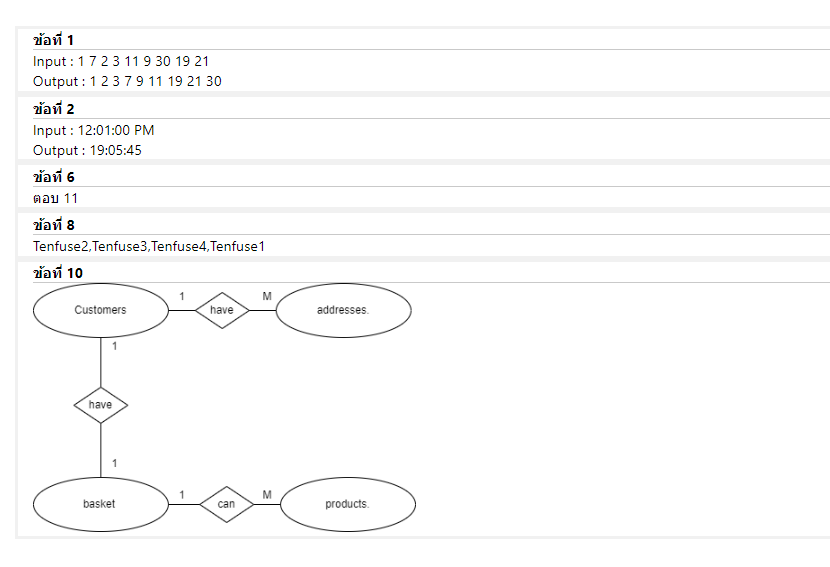
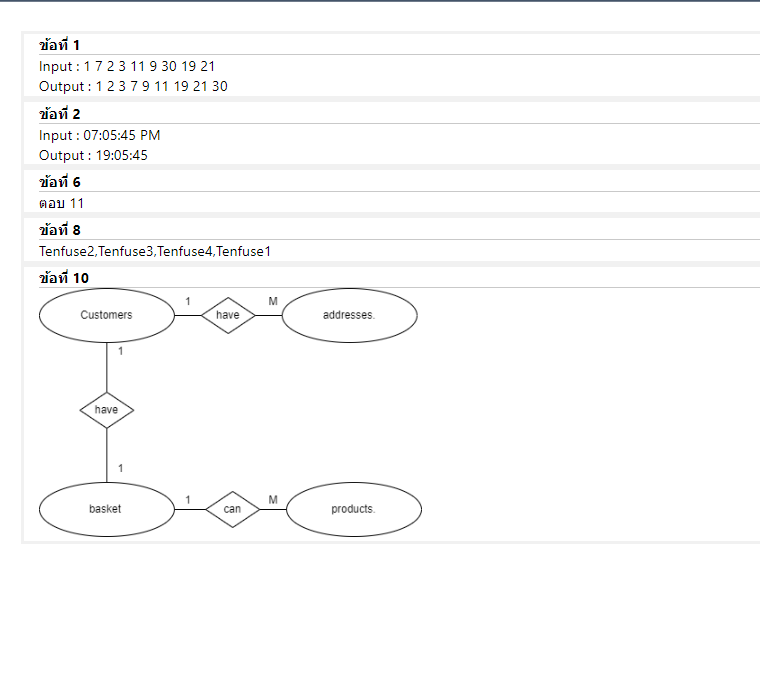
update Result

diff --git a/src/components/tenfuse.js b/src/components/tenfuse.js
@@ -40,7 +40,7 @@ const Tenfuse = () => {
         </div>
         <div className="box-result">
           <h4>ข้อที่ 2</h4>
-          <p>Input : 12:01:00 PM</p>
+          <p>Input : 07:05:45 PM</p>
           <p>Output : {convertDateTime()}</p>
         </div>
         <div className="box-result">
